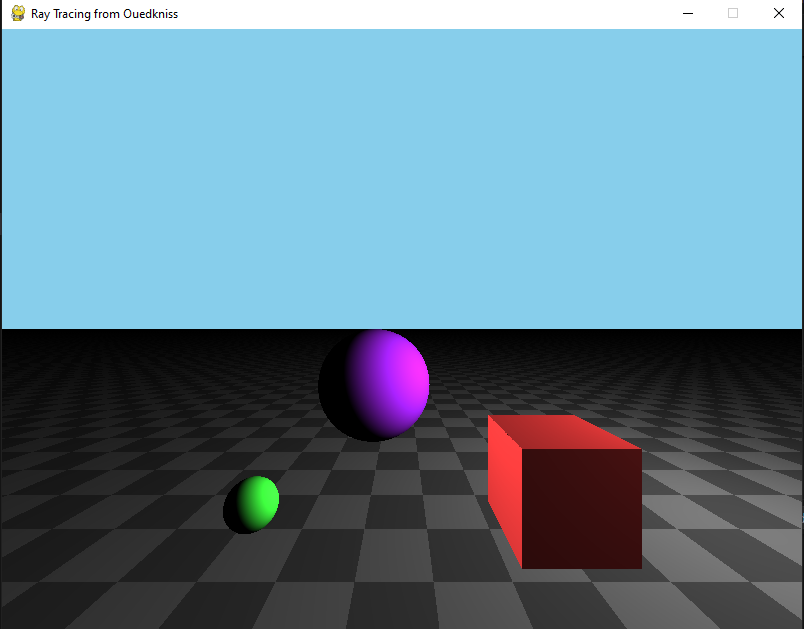
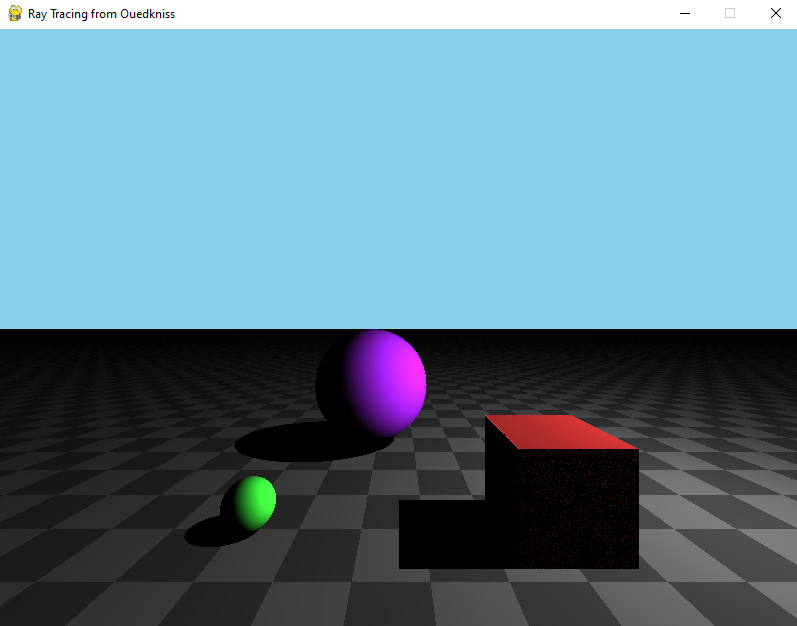
added basic implementation of shadows
the system is there but I think a couple values need to be tweaked, especially the shadow ray and the resulting shadow color.

I'll handle it later, can't be that bad.

diff --git a/main_movable.py b/main_movable.py
@@ -3,7 +3,7 @@ import numpy as np
 from camera import Camera
 from objectHandler import Sphere, Plane, Triangle, read_object
 from light import Light
-import random
+from ray import Ray
 
 def update_view(screen, render_surface, camera, objects, render_width, render_height, light):
     #black background, will probably replace with a floor/skybox or something later
@@ -26,8 +26,21 @@ def update_view(screen, render_surface, camera, objects, render_width, render_he
                         closest_object = object
                         saved_intersection_point = intersection_point
                         #find the intersection point of each object and render the closest one.
+
             if closest_object:
-                closest_object.render(render_surface, x, y, saved_intersection_point, light)
+                shadow_ray = Ray(saved_intersection_point, light.position)
+                obstructed = False
+                for object in objects:
+                    if object is not closest_object:
+                        shadow_intersection_result = object.intersect(shadow_ray)
+                        if shadow_intersection_result[0] is not None:
+                            obstructed = True
+                            break
+                
+                if obstructed:
+                    render_surface.set_at((x, y), (0, 0, 0))
+                else:
+                    closest_object.render(render_surface, x, y, saved_intersection_point, light)
             else:
                 render_surface.set_at((x, y), background_color)
 
@@ -73,7 +86,7 @@ def main():
         point1 = cube_vertices[face[0]-1]
         point2 = cube_vertices[face[1]-1]
         point3 = cube_vertices[face[2]-1]
-        objects.append(Triangle(point1, point2, point3, (random.randint(0, 255), random.randint(0, 255), random.randint(0, 255))))
+        objects.append(Triangle(point1, point2, point3, (200, 50, 50)))
 
     render_surface = pygame.Surface((render_width, render_height))
 

diff --git a/main.py b/main.py
@@ -3,6 +3,7 @@ import numpy as np
 from camera import Camera
 from objectHandler import Sphere, Plane, Triangle, read_object
 from light import Light
+from ray import Ray
 
 def main():
     pygame.init()
@@ -64,8 +65,24 @@ def main():
                         saved_intersection_point = intersection_point
                         #find the intersection point of each object and render the closest one.
             if closest_object:
-                closest_object.render(screen, x, y, saved_intersection_point, light)
-                pygame.display.update((x, y, 1, 1))
+                #if our ray hits an object, we fire off a second ray with an origin point of our intersection point towards the light source
+                shadow_ray = Ray(saved_intersection_point, light.position)
+                obstructed = False
+                #we check every object that is NOT the current object (because it cant intersect with itself? maybe? i think? that might be flawed actually)
+                for object in objects:
+                    if object is not closest_object:
+                        shadow_intersection_result = object.intersect(shadow_ray)
+                        #if the shadow ray intersects an object we break and flip the togggle.
+                        if shadow_intersection_result[0] is not None and shadow_intersection_result[1] < closest_t:
+                            obstructed = True
+                            break
+                
+                #if the shadow ray could not successfully make it to the light source we color the pixel black, otherwise we proceed as usual.
+                if obstructed:
+                    screen.set_at((x, y), (0, 0, 0))
+                else:
+                    closest_object.render(screen, x, y, saved_intersection_point, light)
+                    pygame.display.update((x, y, 1, 1))
             else:
                 screen.set_at((x, y), background_color)
                 pygame.display.update((x, y, 1, 1))
